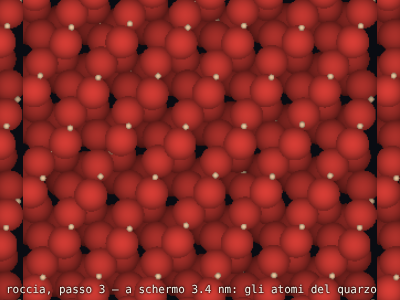
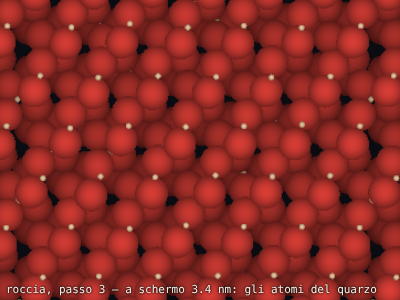
Zoom senza riquadri: atomi a schermo pieno e allineati, finestre che si fondono per scala, niente righe bianche; la rotella non si perde più fuori dalla galassia
- Gli atomi in 3D (laboratorio.js): la camera guarda il piano x–y come l'immagine piatta (niente yaw 0,6 / pitch 0,35), le
  copie periodiche riempiono lo schermo; la vista si fonde con l'immagine piatta secondo la scala (trasparente alla grandezza
  d'ingresso, piena a un terzo), e allontanandosi fino a quella grandezza si torna all'immagine piatta: niente blocco di
  molecole sospeso nel vuoto, avanti e indietro per gli stessi stati.
- Le finestre dell'acqua e del suolo (mappa.js disegnaFinestre, finestreDelPunto): quella dieci volte più grande sotto, quella
  di adesso e la più piccola sopra, sfumate ai bordi e con un'opacità che dipende solo dalla grandezza a schermo; il cambio di
  finestra non fa più un'istantanea che sfuma col tempo e non ricentra (le coordinate si scalano). La finestra di fondo e
  quelle del suolo si ripetono senza cuciture (copie sovrapposte con pesi che sommano a uno). Nello spazio, a pochi metri, le
  stesse finestre si fondono col 3D allo stesso modo (prima un quadrato netto); l'istantanea del passaggio comprende la tela
  di sopra; lo sguardo nel 3D sotto i 3 km dipende solo dalla quota (risalendo si ripassa per gli stessi sguardi).
- Le righe bianche: le tracce dei muoni e degli altri eventi erano righe larghe un punto a ogni scala; ora una traccia (10 nm,
  le tracce latenti) prende la sua parte del punto (grani.js). Le cuciture scure dell'immagine degli atomi ripetuta: gli
[…]

diff --git a/src/camera/laboratorio.js b/src/camera/laboratorio.js
@@ -21,7 +21,7 @@ import { conteggioVero, fmtGrande } from './nebbia.js';
 import { convezione, celle } from './fluidi.js';
 import { superficiePianeta, immagineSuperficie, climaSuperficie, erosione } from './geologia.js';
 import { fascia as fasciaDi, sistema as sistemaDi, pianeta as pianetaDi, galassia as galassiaDi, FASCIA_MAX } from './cosmo.js';
-import { disegnaMappa, zoomMappa, colpisciMappa, camSuRegione, volaVerso, percorso, rocciaDi, superficieDi, quandoSuperficiePronta, cercaFinestra, scenaAtomi, finestraDelPunto, campoDelPunto, popolazioneDelPunto } from './mappa.js';
+import { disegnaMappa, zoomMappa, colpisciMappa, camSuRegione, volaVerso, percorso, rocciaDi, superficieDi, quandoSuperficiePronta, cercaFinestra, scenaAtomi, finestraDelPunto, campoDelPunto, popolazioneDelPunto, finestreDelPunto, disegnaFinestre } from './mappa.js';
 import { creaVista3D as creaVistaAtomi } from './atomi3d.js';
 import { creaNucleo } from '../tre/nucleo.js';
 import { creaUniverso } from '../tre/universo.js';
@@ -356,6 +356,9 @@ function istantanea() {
     else { const s = Math.exp(lente), o = origineLente(); c.setTransform(s, 0, 0, s, (o[0] + spostaLente[0] - s * o[0]) * dpr, (o[1] + spostaLente[1] - s * o[1]) * dpr); c.drawImage(tela, 0, 0, cv.width, cv.height); c.setTransform(1, 0, 0, 1, 0, 0); }
     for (const t of [telaMondo, telaAtomi]) if (t) c.drawImage(t, 0, 0, cv.width, cv.height);
     if (passaggio && telaPassaggio) c.drawImage(telaPassaggio, 0, 0, cv.width, cv.height);
+    // (e la tela di sopra: le finestre dell'acqua e del suolo che nello spazio si fondono col 3D, le tracce; senza, l'istantanea
+    // dello spazio non sarebbe ciò che si vedeva, e la dissolvenza verso il livello 5 lo mostrerebbe)
+    c.drawImage(telaSopra, 0, 0, cv.width, cv.height);
   } catch { return null; }
   return cv;
 }
@@ -439,10 +442,21 @@ function smontaAtomi() {
   telaAtomi?.remove(); bottoneAtomi?.remove(); telaAtomi = null; vistaAtomi = null; bottoneAtomi = null; chiaveAtomi = null;
 }
 // allontanandosi oltre la scena degli atomi si torna all'immagine piatta, alla stessa grandezza a schermo (z dalla grandezza vera)
-function esciDagliAtomi() {
-  const img = istantanea(), mpp = misura(), r = rocciaDi(camMappa), dpr = devicePixelRatio || 1;
-  if (r && mpp > 0) { camMappa.z = (r.larghezzaM * dpr) / mpp; camMappa.cx = 0.5; camMappa.cy = 0.5; }
-  smontaAtomi(); senzaAtomiFino = camMappa.z; montaMondo(); disegna(); dove(); avviaPassaggio(img);
+// (liscio: ci si esce alla grandezza a cui si era entrati, dove gli atomi sono già sfumati del tutto: niente istantanea)
+function esciDagliAtomi(liscio = false) {
+  const img = liscio ? null : istantanea(), mpp = misura(), r = rocciaDi(camMappa), dpr = devicePixelRatio || 1;
+  if (r && mpp > 0) { camMappa.z = (r.larghezzaM * dpr) / mpp; if (!liscio) { camMappa.cx = 0.5; camMappa.cy = 0.5; } }
+  smontaAtomi(); senzaAtomiFino = camMappa.z; montaMondo(); disegna(); dove(); if (img) avviaPassaggio(img);
+}
+// GLI ATOMI SI FONDONO CON L'IMMAGINE PIATTA secondo la scala, non col tempo: montati alla grandezza mppAtomi0 (quando il
+// campione riempie lo schermo) sono trasparenti, e diventano pieni a un terzo di quella grandezza; nel mezzo l'immagine piatta
+// sotto segue la stessa scala. Allontanandosi fino a mppAtomi0 si torna all'immagine piatta: avanti e indietro passano per gli
+// stessi stati. (A MANO, dichiarato: la dissolvenza su un fattore 3 di scala)
+let mppAtomi0 = 0;
+function fondiAtomi() {
+  if (!telaAtomi || !(mppAtomi0 > 0)) return; const mpp = misura(); if (!(mpp > 0)) return;
+  const a = Math.max(0, Math.min(1, Math.log(mppAtomi0 / mpp) / Math.log(3))); telaAtomi.style.opacity = String(a);
+  if (a < 1 && camMappa) { const r = rocciaDi(camMappa), dpr = devicePixelRatio || 1; if (r) { camMappa.z = (r.larghezzaM * dpr) / mpp; disegna(); } }
 }
 // (dopo esserne usciti, gli atomi in 3D tornano solo riavvicinandosi: non alla stessa grandezza da cui si è usciti)
 let senzaAtomiFino = 0;
@@ -454,11 +468,16 @@ function montaAtomi() {
   const mppPrima = misura(); smontaAtomi();
   try {
     telaAtomi = document.createElement('canvas'); telaAtomi.style.cssText = 'position:absolute;inset:0;width:100%;height:100%'; tela.parentNode.insertBefore(telaAtomi, tela.nextSibling);
-    vistaAtomi = creaVistaAtomi(telaAtomi, { alFuori: esciDagliAtomi, conserva: true });
+    vistaAtomi = creaVistaAtomi(telaAtomi, { alFuori: () => esciDagliAtomi(), conserva: true });
     vistaAtomi.suAtomo((a) => { if (!a) { dove(); return; } ultimoAtomo = a; $('dove').textContent = `${a.nome || a.simbolo || 'un atomo'}${a.simbolo && a.nome ? ` (${a.simbolo})` : ''}${a.parte ? ` · ${typeof a.parte === 'string' ? a.parte : a.parte.nome || ''}` : ''}${a.rappresenta > 1 ? ` · da qui questa sfera ne rappresenta ${a.rappresenta}: avvicinati e tornano gli atomi` : ''}`; });
     scenaAtomiOra = sc.crea(); vistaAtomi.carica(scenaAtomiOra); vistaAtomi.avvia(); chiaveAtomi = sc.chiave;
-    // la camera degli atomi parte alla grandezza a cui si era (niente salto): lo schermo alto quanto era alto un attimo prima
-    { const c = vistaAtomi.camera; if (mppPrima > 0) c.dist = (mppPrima * tela.clientHeight) / (2 * Math.tan((c.fov || 0.6) / 2)) * 1e9; }
+    // la camera degli atomi parte alla grandezza a cui si era (niente salto): lo schermo alto quanto era alto un attimo prima,
+    // e guarda come l'immagine piatta: dall'alto, il piano x–y della scena con la x a destra e la y in su (nessuna rotazione
+    // sua: la ruota solo chi trascina). La scena è periodica: le copie attorno a quella del punto riempiono lo schermo
+    { const c = vistaAtomi.camera; c.yaw = 0; c.pitch = 0; if (mppPrima > 0) c.dist = (mppPrima * tela.clientHeight) / (2 * Math.tan((c.fov || 0.6) / 2)) * 1e9; }
+    mppAtomi0 = mppPrima > 0 ? mppPrima : 0; telaAtomi.style.opacity = mppAtomi0 > 0 ? '0' : '1';
+    // (la rotella la usa prima la vista; poi qui: la dissolvenza, e oltre la grandezza d'ingresso si torna all'immagine piatta)
+    telaAtomi.addEventListener('wheel', (e) => { if (!vistaAtomi) return; if (e.deltaY > 0 && mppAtomi0 > 0 && misura() >= mppAtomi0 * 0.999) { esciDagliAtomi(true); return; } fondiAtomi(); });
     // oltre il più vicino possibile (dentro l'atomo): la scala quantistica, alla sua grandezza (montaQuanti)
     telaAtomi.addEventListener('wheel', (e) => {
       if (!(e.deltaY < 0 && vistaAtomi && vistaAtomi.camera.dist <= 0.1)) return;
@@ -530,6 +549,7 @@ function seguiMondo() {
 // suolo si guarda dall'alto (lo zoom vicino al suolo raddrizza lo sguardo verso il basso): a quota q lo schermo è alto
 // 2·q·tan(fov/2) metri, e la roccia (larga larghezzaM) si mette allo zoom che le dà la stessa larghezza in pixel.
 const tanMondo = () => mondo3d?.stato?.tanY || Math.tan(0.375);
+let ingressoSuolo = null; // (la quota e lo sguardo di quando si è entrati sotto i tre chilometri)
 // mettersi sopra un punto a una quota: `vai` del nucleo conta la quota dal punto del corpo (corpo.punto), `dove` dal suolo
 // (quotaSuolo); se i due non combaciano (il rilievo che arriva dopo, in secondo piano) si corregge dello scarto misurato qui
 let quotaVoluta = null; // (l'ultima quota chiesta: se il suolo si alza sotto la camera dopo che ci si è posati, la si rimette lì)
@@ -598,14 +618,19 @@ function montaMondo() {
     // raddrizza piano verso il basso (del tutto sotto il metro), così il suolo diventa una carta vista dall'alto; quando il
     // suolo a schermo è largo quanto la roccia di quel punto, si entra nella roccia (scendiNellaMateria), alla stessa grandezza.
     telaMondo.addEventListener('wheel', (e) => {
-      if (!mondo3d?.camera.corpo?.punto) return; if (!mondoPosato) { e.stopImmediatePropagation(); e.preventDefault(); return; } // (mentre si posa sopra il punto: niente)
+      // (mentre il mondo si prepara e si posa sopra il punto, la rotella non fa niente: prima la camera non è ancora attaccata al
+      // pianeta, e la rotella libera dello spazio la porterebbe lontano, oltre la galassia)
+      if (!mondo3d) return; if (!mondoPosato) { e.stopImmediatePropagation(); e.preventDefault(); return; } if (!mondo3d.camera.corpo?.punto) return;
       const d = mondo3d.dove(); if (d.quota < 0) { e.stopImmediatePropagation(); e.preventDefault(); vaiSopra({ lon: d.lon, lat: d.lat, quota: quotaVoluta || 1, direzione: d.direzione, alza: d.alza }); return; } if (!(d.quota < 3000)) return;
       e.stopImmediatePropagation(); e.preventDefault();
       const k = Math.exp(Math.max(-0.7, Math.min(0.7, e.deltaY * 0.0016))), q = d.quota * k;
       if (k < 1 && q < 3) { const v = universo3d.viaOra(); if (v.pianeta != null && q <= Math.max(quotaDellaRoccia(camRoccia(d, v)), 0.006)) return scendiNellaMateria(q); }
       let lon = d.lon, lat = d.lat; const r = telaMondo.getBoundingClientRect(), sotto = k < 1 ? mondo3d.sotto(e.clientX - r.left, e.clientY - r.top) : null;
       if (sotto && sotto.distanza < 30 * Math.max(d.quota, 1)) { let dl = sotto.lon - lon; dl -= 2 * Math.PI * Math.round(dl / (2 * Math.PI)); lon += dl * (1 - k); lat += (sotto.lat - lat) * (1 - k); }
-      const alza = k < 1 ? d.alza + (-1.54 - d.alza) * Math.min(1, Math.log(1 / k) / Math.max(1e-3, Math.log(Math.max(1.0001, d.quota)))) : d.alza;
+      // (lo sguardo dipende solo dalla quota, così risalendo si ripassa per gli stessi sguardi della discesa: dall'inclinazione
+      // che si aveva entrando sotto i tre chilometri, in proporzione al logaritmo della quota, fino a dritto in giù al metro)
+      if (!ingressoSuolo || d.quota >= ingressoSuolo.q) ingressoSuolo = { q: Math.max(1.0001, d.quota), alza: d.alza };
+      const alza = -1.54 + (ingressoSuolo.alza + 1.54) * Math.max(0, Math.log(Math.max(1, q))) / Math.log(ingressoSuolo.q);
       vaiSopra({ lon, lat, quota: Math.max(q, 0.004), direzione: d.direzione, alza }); rigaMondo();
     }, { capture: true, passive: false });
     // il tempo del mondo: più lento, pausa, più veloce, e quanto vale; e il ritorno alla mappa piatta
@@ -1178,10 +1203,10 @@ tela.addEventListener('wheel', (e) => {
   if (vista === 'cosmo') {
     e.preventDefault(); volo = null;
     const r = tela.getBoundingClientRect(), dpr = devicePixelRatio || 1, k = Math.exp(-e.deltaY * 0.0015), m = Math.min(tela.width, tela.height);
-    // nella roccia (livello 5): ogni cambio di passo (cristallo, lamina, atomi; acqua dieci volte più piccola) è una dissolvenza
-    // (dentro la roccia i passi sono una scala sola, disegnati uno dentro l'altro: niente dissolvenza; nell'acqua il campione
-    // dieci volte più piccolo è un'immagine nuova alla stessa grandezza: dissolvenza)
-    const in5 = camMappa?.livello === 5, chiave = (c) => `${c.livello}|${c.suAcqua ? c.latoAcqua : ''}`, prima = in5 ? chiave(camMappa) : null, img = in5 ? istantanea() : null;
+    // nel livello 5 i passi sono una scala sola, disegnati uno dentro l'altro (la roccia: cristallo, lamina, atomi; l'acqua e il
+    // suolo: le finestre di dieci in dieci, che si fondono secondo la grandezza a schermo, mappa.js disegnaFinestre): niente
+    // istantanea che sfuma col tempo; la dissolvenza resta solo entrando e uscendo dal livello
+    const in5 = camMappa?.livello === 5, chiave = (c) => `${c.livello}`, prima = in5 ? chiave(camMappa) : null, img = in5 ? istantanea() : null;
     if (in5) {
       const R = rocciaDi(camMappa);
       // in cima (la roccia intera, o il campione d'acqua più grande): si torna nello spazio sopra lo stesso punto, guardando giù,
@@ -2020,7 +2045,9 @@ function disegnaSopra() {
     sopraCalcolo.t = ora; sopraCalcolo.mpp = mpp; let P = null; try { P = camDelPunto(); } catch { P = null; } sopraCalcolo.P = P;
     voci = []; const dentro = (L) => L / mpp > 2 && L / mpp < 60 * Math.max(W, H);
     if (P) try {
-      if (P.spazio) { const r = rocciaDi(P.cam); if (r && !r.alPosto && dentro(r.larghezzaM)) voci.push({ L: r.larghezzaM, cv: r.cv, liscio: r.liscio, peso: P.verticale, nome: r.nome, bordo: true }); }
+      // (nello spazio, guardando giù: le finestre dell'acqua o del suolo di quel punto, una dentro l'altra, che si fondono col 3D
+      // secondo la loro grandezza a schermo, come poi nel livello 5: entrando e uscendo non cambia niente)
+      if (P.spazio) { const r = rocciaDi(P.cam), F = r && !r.alPosto ? finestreDelPunto(P.cam) : null; if (F?.length && dentro(F[F.length - 1].L)) voci.push({ L: r.larghezzaM, finestre: F, peso: P.verticale, nome: r.nome }); }
       const f0 = finestraDelPunto(P.cam); if (f0 && dentro(f0.latoM) && f0.latoM / mpp > m / 40) { const f = finestraDelPunto(P.cam, { tracce: true }); voci.push({ L: f.latoM, cv: f.cv, liscio: true, peso: P.spazio ? Math.max(0.35, P.verticale) : 1, nome: `le particelle: ${f.che} (una finestra larga ${fmtLunghezza(f.latoM)})`, tracce: true }); }
     } catch (err) { console.warn(err); }
   }
@@ -2047,6 +2074,7 @@ function disegnaSopra() {
   } catch (err) { console.warn(err); }
   nebbiaOra = neb;
   for (const v of voci) {
+    if (v.finestre) { if (v.peso > 0) disegnaFinestre(c, { W: cv.width, H: cv.height, px: qx * dpr, py: qy * dpr, pxm: dpr / mpp, m: Math.min(cv.width, cv.height), finestre: v.finestre, fondo: false, peso: v.peso }); continue; }
     const sz = v.L / mpp, entra = Math.max(0, Math.min(1, Math.log(sz / (0.02 * m)) / Math.log(5))), esce = v.tracce ? Math.max(0, Math.min(1, Math.log((40 * Math.max(W, H)) / sz) / Math.log(5))) : 1, a = v.peso * Math.min(entra, esce);
     const x = qx - sz / 2, y = qy - sz / 2;
     if (a > 0 && v.cv) { c.globalAlpha = a; c.imageSmoothingEnabled = !!v.liscio; const N = v.cv.width, k = (sz * dpr) / N, x0 = Math.max(0, Math.floor((-x * dpr) / k)), y0 = Math.max(0, Math.floor((-y * dpr) / k)), x1 = Math.min(N, Math.ceil(((W - x) * dpr) / k)), y1 = Math.min(N, Math.ceil(((H - y) * dpr) / k)); if (x1 > x0 && y1 > y0) c.drawImage(v.cv, x0, y0, x1 - x0, y1 - y0, x * dpr + x0 * k, y * dpr + y0 * k, (x1 - x0) * k, (y1 - y0) * k); c.globalAlpha = 1; c.imageSmoothingEnabled = true; }

diff --git a/src/tre/nucleo.js b/src/tre/nucleo.js
@@ -277,10 +277,15 @@ export function creaNucleo(tela, opzioni = {}) {
     if (!c.solido) return Infinity; const b = -V.scal(o, d), q = b * b - V.scal(o, o) + c.raggio * c.raggio; return q < 0 || b - Math.sqrt(q) < 0 ? Infinity : b - Math.sqrt(q);
   }
   // il bersaglio (tra quelli detti dagli strati nell'ultimo fotogramma) più vicino al raggio dato, negli assi del mondo
-  function bersaglioLungo(dW) {
-    let meglio = null, vm = Infinity; const tol = (18 * 2 * Math.tan(cam.fov / 2)) / Math.max(1, tela.clientHeight);
-    for (const b of S.bersagli) { const lungo = V.scal(b.p, dW); if (lungo <= 0) continue; const fuori = Math.hypot(b.p[0] - dW[0] * lungo, b.p[1] - dW[1] * lungo, b.p[2] - dW[2] * lungo), largo = Math.max(b.raggio, tol * lungo); if (fuori > largo) continue; const v = fuori / largo + (b.raggio > tol * lungo ? -1 : 0) + 1e-3 * Math.log10(lungo); if (v < vm) { vm = v; meglio = b; } }
-    return meglio;
+  // la cosa sotto il cursore (entro 18 pixel, o grande abbastanza da coprirlo). Con `vicina` (avvicinandosi), se sotto il
+  // cursore non c'è niente: la cosa più vicina al cursore sullo schermo, entro il campo visivo — nello spazio vuoto tra le
+  // galassie il raggio del cursore non tocca quasi mai niente, e senza questo la rotella volerebbe dritta senza arrivare mai
+  // a una galassia. `salta`: una cosa da non prendere (quella al cui bordo si è già arrivati)
+  function bersaglioLungo(dW, { vicina = false, salta = null } = {}) {
+    let meglio = null, vm = Infinity, prossima = null, am = Math.tan(cam.fov * 0.75); const tol = (18 * 2 * Math.tan(cam.fov / 2)) / Math.max(1, tela.clientHeight);
+    for (const b of S.bersagli) { if (b === salta || (salta && b.p[0] === salta.p[0] && b.p[1] === salta.p[1] && b.p[2] === salta.p[2])) continue; const lungo = V.scal(b.p, dW); if (lungo <= 0) continue; const fuori = Math.hypot(b.p[0] - dW[0] * lungo, b.p[1] - dW[1] * lungo, b.p[2] - dW[2] * lungo), largo = Math.max(b.raggio, tol * lungo);
+      if (fuori > largo) { if (vicina && fuori / lungo < am) { am = fuori / lungo; prossima = b; } continue; } const v = fuori / largo + (b.raggio > tol * lungo ? -1 : 0) + 1e-3 * Math.log10(lungo); if (v < vm) { vm = v; meglio = b; } }
+    return meglio || prossima;
   }
   const quota = () => (cam.corpo ? V.lungo(cam.pos) - quotaSuolo(cam.corpo, V.norma(nelCorpo(tempo.t).p)) : 0);
 
@@ -290,7 +295,9 @@ export function creaNucleo(tela, opzioni = {}) {
     const c = nelCorpo(tempo.t), d = raggio(x, y, c), s = tocca(c.p, d), su0 = suDi(c.p), corpo0 = cam.corpo;
     if (isFinite(s)) { const Q = V.somma(c.p, V.per(d, s)); c.p = V.somma(Q, V.per(V.meno(c.p, Q), k)); cam.perno = null; }
     else {
-      const A = assettoDi(cam.corpo, tempo.t), dW = V.mv(A, d), b = bersaglioLungo(dW);
+      const A = assettoDi(cam.corpo, tempo.t), dW = V.mv(A, d); let b = bersaglioLungo(dW, { vicina: k < 1 });
+      // (arrivati al bordo di una cosa — una galassia vista da fuori — si continua verso ciò che c'è dentro, sotto il cursore)
+      if (b && k < 1 && V.lungo(b.p) <= b.raggio * 1.26) b = bersaglioLungo(dW, { vicina: true, salta: b });
       if (b) { // verso la cosa sotto il cursore: mai più vicino del suo bordo
         const dist = V.lungo(b.p), nuova = Math.max(dist * k, b.raggio * 1.25), passo = dist - nuova, dir = V.tv(A, V.per(b.p, 1 / dist));
         c.p = V.somma(c.p, V.per(dir, passo)); cam.perno = V.somma(c.p, V.per(dir, nuova));

diff --git a/src/camera/grani.js b/src/camera/grani.js
@@ -208,6 +208,11 @@ export function campoGrani(spec, caso) {
 // «processo/cella ix iy»/k, in celle cubiche larghe quanto la sua traccia più lunga (al più un metro): si guarda la
 // proiezione di uno strato spesso una cella, come nella finestra delle particelle.
 export const PRESENTE_S = 0.1;
+// LA LARGHEZZA DI UNA TRACCIA: la colonna di materia danneggiata (o ionizzata) attorno al percorso, una decina di nanometri
+// (le tracce latenti: Fleischer, Price e Walker 1975; si vedono al microscopio solo dopo l'attacco chimico). Il principio della
+// nebbia: una traccia più sottile di un punto dell'immagine ne prende la sua parte (la frazione del punto che copre), non un
+// punto intero; altrimenti a ogni scala le tracce sarebbero righe larghe un punto, cioè sparse e sempre visibili.
+export const LARGHEZZA_TRACCIA_M = 1e-8;
 // una spezzata (x0, y0, x1, y1, …) passa per il rettangolo [0, W] × [0, H]? (Liang-Barsky, tratto per tratto)
 function tocca(p, W, H) {
   for (let i = 2; i < p.length; i += 2) {
@@ -257,7 +262,7 @@ export function popolazioneTracce(luogo, { minerale = null } = {}, caso) {
         const celle = (i1 - i0 + 1) * (j1 - j0 + 1); if (celle > 40000 || budget < 0.5) { voci.push({ id: P.id, vere: nVere, disegnate: 0, memoria: P.memoria }); return; }
         // (se il posto è meno delle celle, si guarda una cella su 1/quota, scelta dal suo evento «scelta»: lo stesso campione a ogni scala)
         const perCella = Math.max(1, Math.floor(budget / celle)), quota = Math.min(1, budget / celle); let n = 0;
-        ctx.globalAlpha = alfa;
+        ctx.globalAlpha = alfa * Math.min(1, (LARGHEZZA_TRACCIA_M * k) / dpr);
         // (si guarda uno strato spesso una cella: di una traccia lunga si vede il pezzo dentro lo strato. Quante sono
         // davvero quelle che passano per lo schermo: in ogni cella se ne provano fino a qualche migliaio, e il conteggio vero
         // per la parte delle provate che ci passa; se ne disegnano al più quante ne regge lo schermo)
@@ -279,7 +284,7 @@ export function popolazioneTracce(luogo, { minerale = null } = {}, caso) {
             if (!linee.some((l) => tocca(l.pts, W, H))) continue; // non passa per lo schermo
             colpite++; if (qui >= perCella) continue; qui++;
             for (const { pt, pts } of linee) {
-              ctx.strokeStyle = `rgba(${COLORE_TRACCIA(pt.nome)},${pt.nome === 'elettrone' ? 0.8 : 0.9})`; ctx.lineWidth = Math.max(1, dpr * (pt.nome === 'alfa' || pt.nome.startsWith('frammento') || pt.nome === 'rinculo' ? 1.4 : 1));
+              ctx.strokeStyle = `rgba(${COLORE_TRACCIA(pt.nome)},${pt.nome === 'elettrone' ? 0.8 : 0.9})`; ctx.lineWidth = Math.max(dpr * (pt.nome === 'alfa' || pt.nome.startsWith('frammento') || pt.nome === 'rinculo' ? 1.4 : 1), LARGHEZZA_TRACCIA_M * k);
               ctx.beginPath(); ctx.moveTo(pts[0], pts[1]); for (let t = 2; t < pts.length; t += 2) ctx.lineTo(pts[t], pts[t + 1]); ctx.stroke();
             }
           }

diff --git a/src/camera/materia.js b/src/camera/materia.js
@@ -1144,7 +1144,10 @@ export function atomi(minerale, { latoM = 3e-9, T = 288, asse = null, spessoreM 
 export function immagineAtomi(campione, N = 192) {
   const px = new Uint8ClampedArray(N * N * 4), k = N / campione.latoM, zmax = Math.max(1e-12, campione.spessoreM);
   for (let i = 0; i < N * N; i++) { px[i * 4] = 10; px[i * 4 + 1] = 12; px[i * 4 + 2] = 18; px[i * 4 + 3] = 255; }
-  for (const a of campione.atomi) { const r = Math.max(1, a.raggio * k), cx = a.x * k, cy = a.y * k, lume = 0.45 + 0.55 * (1 - a.z / zmax);
+  // (il campione si ripete oltre i lati — mappa.js lo posa con le condizioni periodiche —: un atomo a cavallo di un lato si
+  // disegna anche dall'altra parte, se no lungo le cuciture resta una riga scura dove manca la sua metà)
+  const copie = []; for (const a of campione.atomi) { const r = Math.max(1, a.raggio * k), x = a.x * k, y = a.y * k; for (const dx of [-N, 0, N]) for (const dy of [-N, 0, N]) if (x + dx + r >= 0 && x + dx - r <= N && y + dy + r >= 0 && y + dy - r <= N) copie.push([a, x + dx, y + dy, r]); }
+  for (const [a, cx, cy, r] of copie) { const lume = 0.45 + 0.55 * (1 - a.z / zmax);
     for (let y = Math.max(0, Math.floor(cy - r)); y <= Math.min(N - 1, Math.ceil(cy + r)); y++) for (let x = Math.max(0, Math.floor(cx - r)); x <= Math.min(N - 1, Math.ceil(cx + r)); x++) { const d = Math.hypot(x + 0.5 - cx, y + 0.5 - cy) / r; if (d > 1) continue; const o = (y * N + x) * 4, s = lume * (1 - 0.45 * d * d); px[o] = a.colore[0] * s; px[o + 1] = a.colore[1] * s; px[o + 2] = a.colore[2] * s; } }
   return px;
 }
